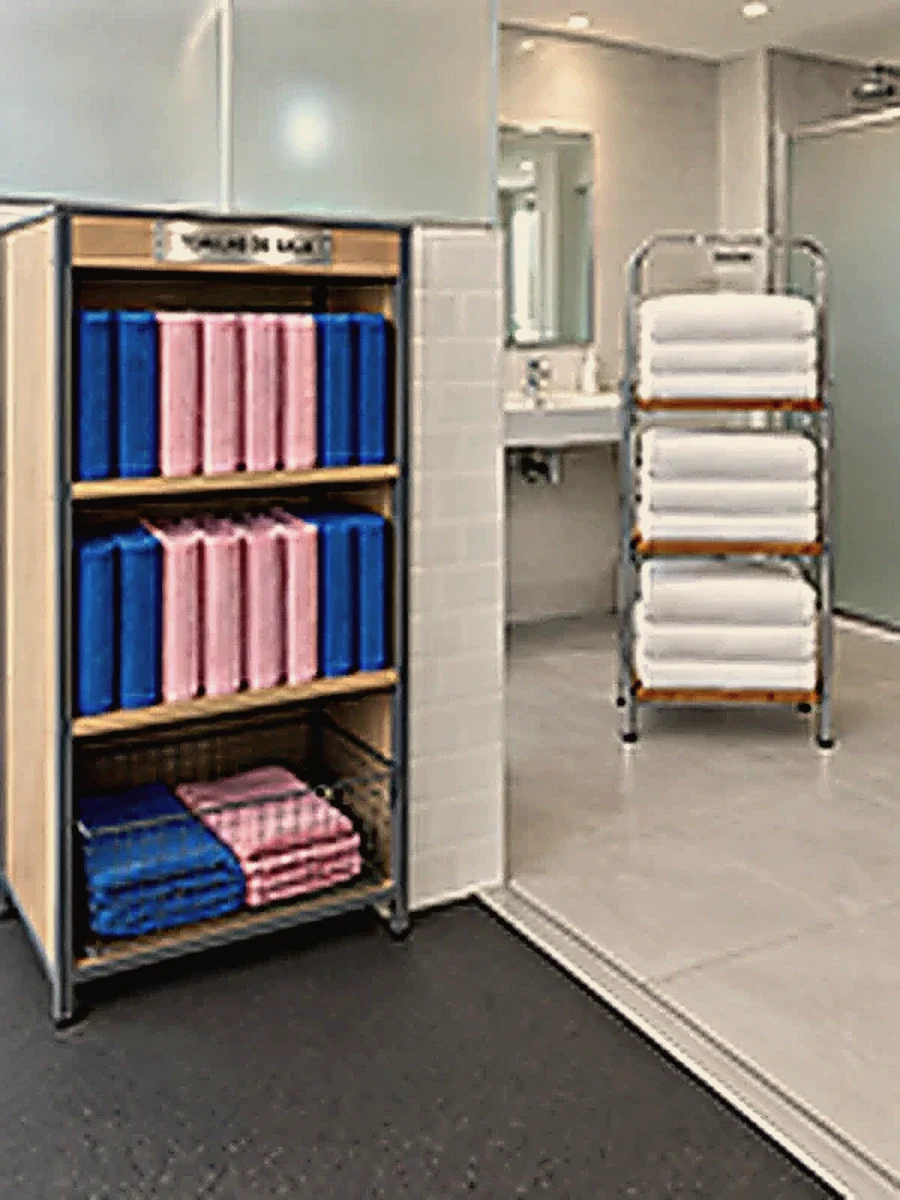
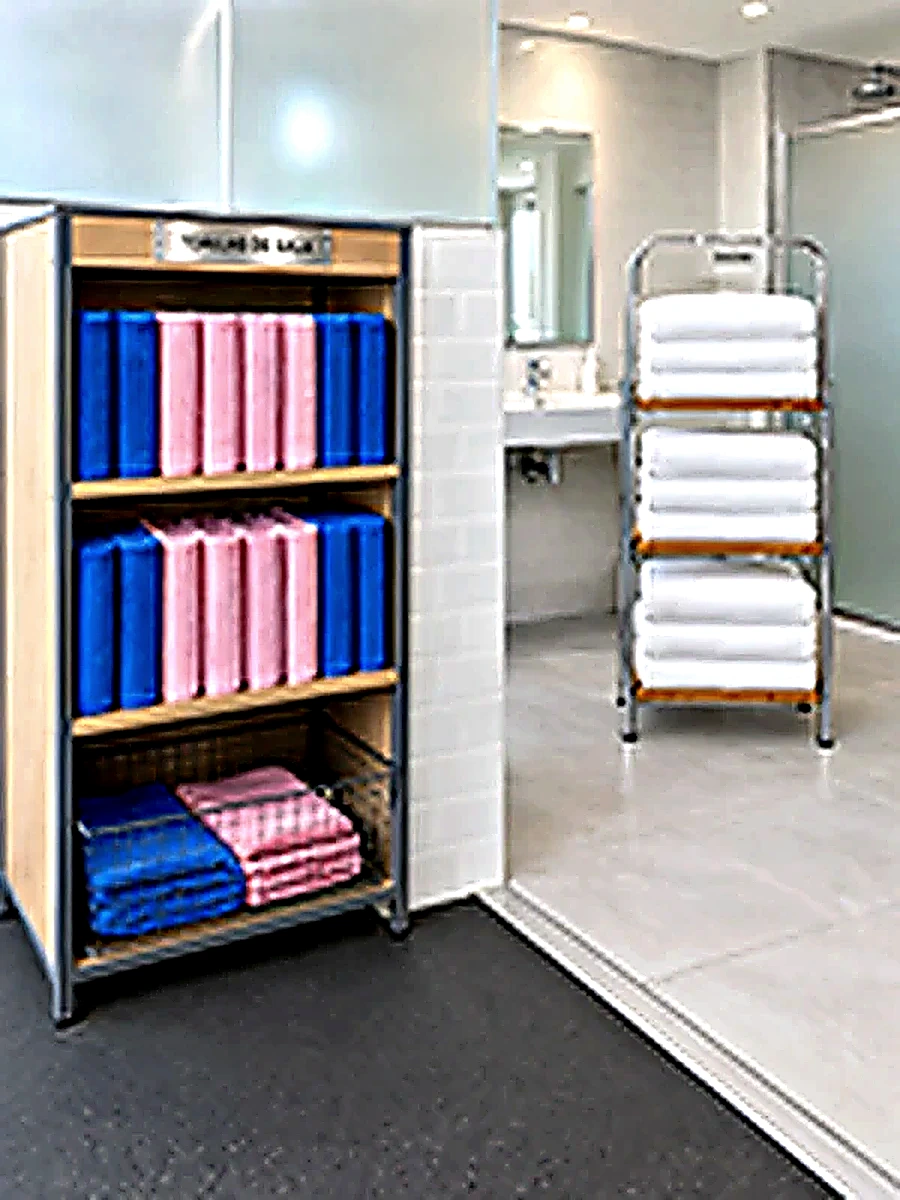
Ritual: fotos más luminosas y nítidas y vuelve el botón de la suela
Claude-Session: https://claude.ai/code/session_01NkzjF2cUTRbCbWbGi42cEs

diff --git a/index.html b/index.html
@@ -1267,10 +1267,10 @@ html,body{overflow-x:clip}
     <h2 class="title sa-h2">Vienes con lo puesto.<span>Sales listo para tu día.</span></h2>
     <p class="lead sa-lead">Tú traes las ganas. Del resto nos ocupamos nosotros.</p>
     <div class="sa-grid">
-      <article class="sa-card sa-pies"><div class="sa-ph sa-alt"><img class="sa-a" src="fotos/suela-calle.webp?v=1" width="1200" height="1500" alt="Suela de un zapato de calle con colillas, aceite, bacterias y restos de excrementos" loading="lazy" decoding="async"><img class="sa-b" src="fotos/ritual-1.webp?v=1" width="1200" height="1040" alt="Calcetines de pilates y zapatillas minimalistas de uso exclusivo en sala sobre un banco de madera" loading="lazy" decoding="async"></div><div class="sa-txt"><h3>La calle se queda en el baúl</h3><p>Al llegar, guardas tus zapatos en el baúl de la entrada. Entrenas en calcetines o con barefoot de sala: más higiene y unos pies más fuertes.</p></div></article>
-      <article class="sa-card sa-cafe"><div class="sa-ph"><img src="fotos/ritual-2.webp?v=1" width="1200" height="1600" alt="Taza de café recién hecho junto a una cafetera profesional" loading="lazy" decoding="async"><div class="sa-steam sa-bg" aria-hidden="true"><i></i><i></i><i></i><i></i><i></i></div><div class="sa-steam" aria-hidden="true"><i></i><i></i><i></i><i></i><i></i><i></i></div></div><div class="sa-txt"><h3>Tu café, recién hecho</h3><p>Te lo preparamos al llegar. Si lo prefieres, agua, una infusión o un chocolate.</p></div></article>
-      <article class="sa-card"><div class="sa-ph"><img src="fotos/ritual-3.webp?v=1" width="900" height="1200" alt="Estantería con toallas limpias para la sala y toallas blancas en el aseo" loading="lazy" decoding="async"></div><div class="sa-txt"><h3>Tu toalla, limpia cada día</h3><p>Lavada a diario y guardada en un armario climatizado.</p></div></article>
-      <article class="sa-card"><div class="sa-ph"><img src="fotos/ritual-4.webp?v=1" width="900" height="1200" alt="Ducha con toallas, champú, gel y desodorante" loading="lazy" decoding="async"></div><div class="sa-txt"><h3>Una ducha con todo listo</h3><p>Toalla, champú, gel y desodorante. Solo tienes que entrar.</p></div></article>
+      <article class="sa-card sa-pies"><div class="sa-ph sa-alt"><img class="sa-a" src="fotos/suela-calle.webp?v=1" width="1200" height="1500" alt="Suela de un zapato de calle con colillas, aceite, bacterias y restos de excrementos" loading="lazy" decoding="async"><img class="sa-b" src="fotos/ritual-1.webp?v=2" width="1200" height="1020" alt="Calcetines de pilates y zapatillas minimalistas de uso exclusivo en sala sobre un banco de madera" loading="lazy" decoding="async"></div><div class="sa-txt"><h3>La calle se queda en el baúl</h3><p>Al llegar, guardas tus zapatos en el baúl de la entrada. Entrenas en calcetines o con barefoot de sala: más higiene y unos pies más fuertes.</p><button type="button" class="sa-suela" data-suela="fotos/suela-sucia.webp?v=2">¿Qué traes en la suela? <b>Míralo →</b></button></div></article>
+      <article class="sa-card sa-cafe"><div class="sa-ph"><img src="fotos/ritual-2.webp?v=2" width="1200" height="1600" alt="Taza de café recién hecho junto a una cafetera profesional" loading="lazy" decoding="async"><div class="sa-steam sa-bg" aria-hidden="true"><i></i><i></i><i></i><i></i><i></i></div><div class="sa-steam" aria-hidden="true"><i></i><i></i><i></i><i></i><i></i><i></i></div></div><div class="sa-txt"><h3>Tu café, recién hecho</h3><p>Te lo preparamos al llegar. Si lo prefieres, agua, una infusión o un chocolate.</p></div></article>
+      <article class="sa-card"><div class="sa-ph"><img src="fotos/ritual-3.webp?v=2" width="900" height="1200" alt="Estantería con toallas limpias para la sala y toallas blancas en el aseo" loading="lazy" decoding="async"></div><div class="sa-txt"><h3>Tu toalla, limpia cada día</h3><p>Lavada a diario y guardada en un armario climatizado.</p></div></article>
+      <article class="sa-card"><div class="sa-ph"><img src="fotos/ritual-4.webp?v=2" width="900" height="1200" alt="Ducha con toallas, champú, gel y desodorante" loading="lazy" decoding="async"></div><div class="sa-txt"><h3>Una ducha con todo listo</h3><p>Toalla, champú, gel y desodorante. Solo tienes que entrar.</p></div></article>
     </div>
   </div></section>
   <section class="dark-sec meet" id="matias"><div class="wrap">
@@ -3198,6 +3198,7 @@ window.addEventListener('load',eq);window.addEventListener('resize',eq);window.a
 #site #solo-aqui .sa-card .sa-ph img{position:absolute;inset:0;width:100%;height:100%;object-fit:cover;transform:scale(1.01);transition:transform 1.6s cubic-bezier(.2,.7,.2,1);z-index:0;-webkit-mask-image:none!important;mask-image:none!important;filter:none!important}
 #site #solo-aqui .sa-card:hover .sa-ph img{transform:scale(1.05)}
 #site #solo-aqui .sa-pies .sa-b{object-position:30% 50%!important}
+#site #solo-aqui .sa-suela{margin-top:16px}
 #site #solo-aqui .sa-alt .sa-a{object-position:50% 46%!important}
 #site #solo-aqui .sa-alt .sa-b{opacity:0;animation:saAlt 12s ease-in-out infinite}
 @keyframes saAlt{0%,40%{opacity:0}50%,90%{opacity:1}100%{opacity:0}}
